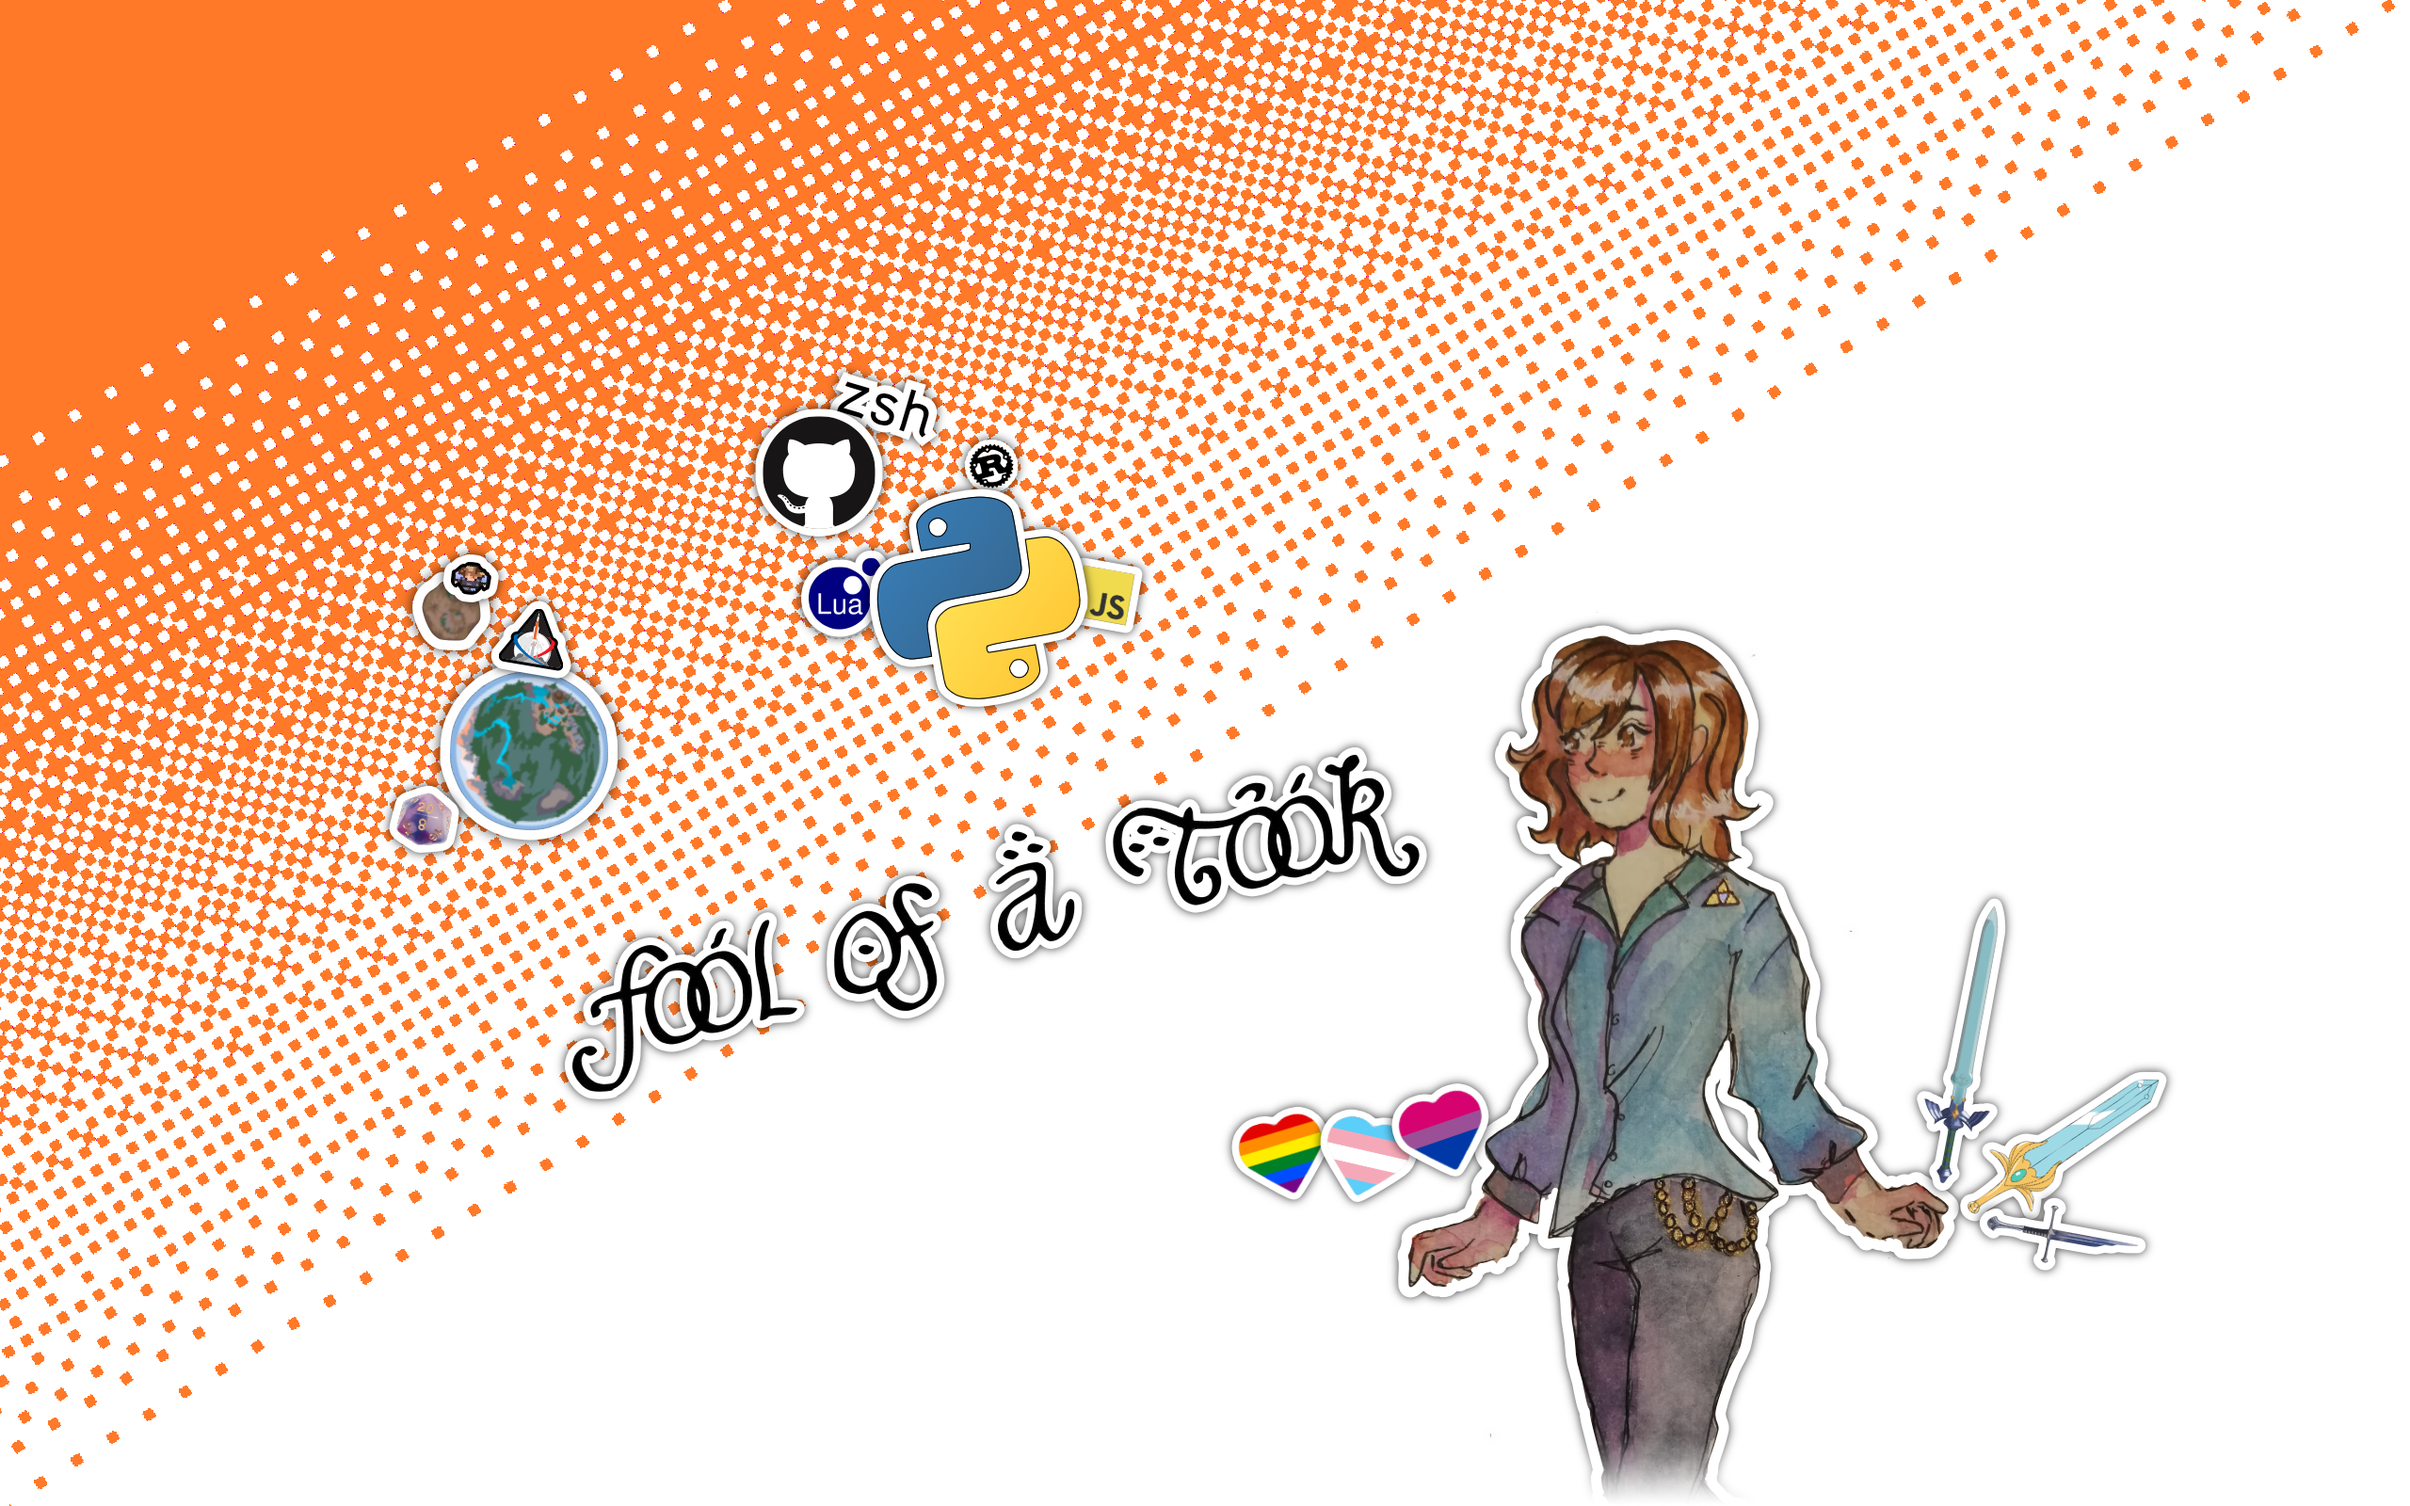
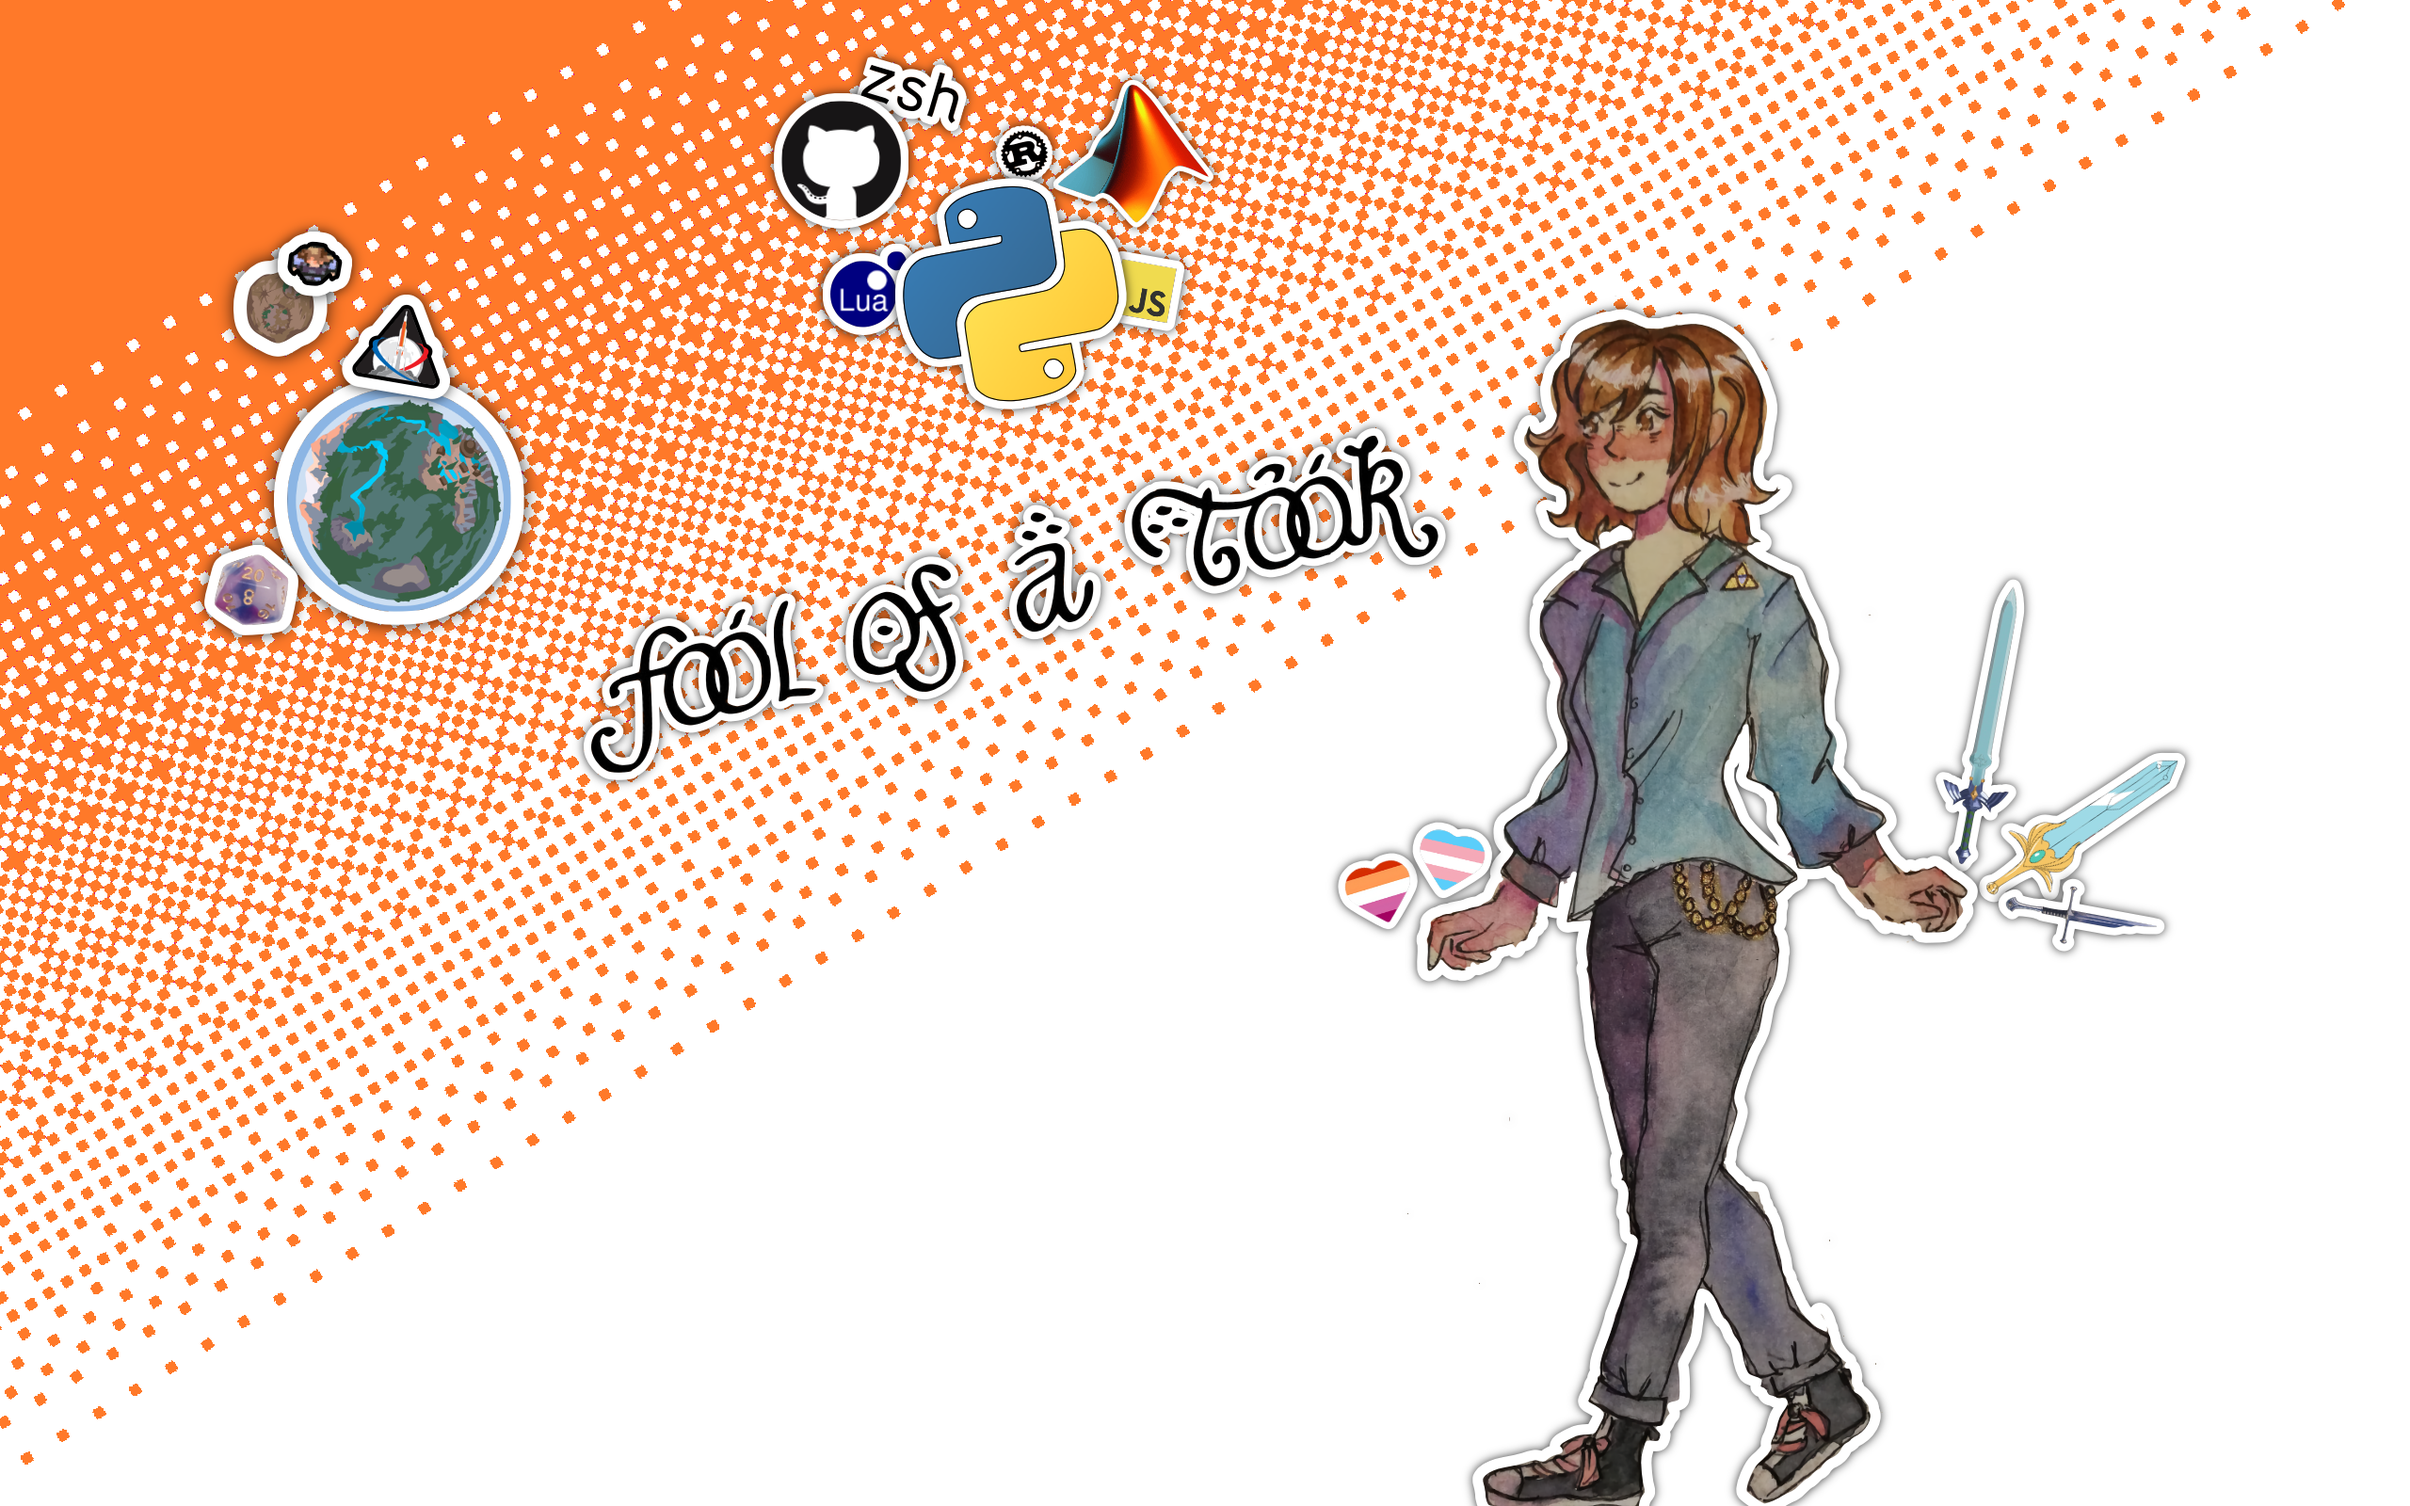
update index.html

diff --git a/index.html b/index.html
@@ -20,77 +20,67 @@
   <div class="zune-spacer-mainpage"></div>
   <content>
     <header>
-      <img src="/static/sticker.png">
+      <img src="static/mia sticker.png">
       <p>Hey hi howdy!</p>
     </header>
-    <p>I'm Mia yun Ruse, a nerdy data witch. I enjoy space, queer fiction, and those
+    <p>
+      I'm Mia yun Ruse, a nerdy data witch. I enjoy space, queer fiction, and those
       chewy sweets that are also sort of sour too.
     </p>
     <main>
 
-
       <article>
-        <h2>Online accounts</h2>
-        <p>If you want to find me online I can be found at:</p>
-        <ul>
-          <li>
-            ✨ <a href="https://yunruse.tumblr.com">Tumblr</a>!
-          </li>
-          <li>
-            🐙 <a href="https://github.com/yunruse">GitHub</a>!
-          </li>
-          <li>
-            📖 <a href="https://en.wikipedia.org/wiki/User:Mia_yun_Ruse">Wikipedia</a>!
-          </li>
-          <li>
-            💼 <a href="https://www.linkedin.com/in/yunruse">LinkedIn</a>!
-          </li>
-        </ul>
-      </article>
-
-
-
-      <article>
-        <h2>Projects</h2>
+        <h2>Python projects</h2>
         <p>
-          My three main project focuses are two Python packages and a book:
+          I've published a few Python packages:
         </p>
         <ul>
           <li>
-            <code>pip install <a href="https://github.com/yunruse/Noether">noether</a></code>
-            for unit calculations and measurements - a calculator with the aim
-            of having every measurement under the sun (and over it too)
+            <code>pip install <a href="https://github.com/yunruse/battery">battery</a></code>,
+            a simple but effective tool for battery stats
+          </li>
+          <li>
+            <code>pip install <a href="https://github.com/yunruse/Noether">noether</a></code>,
+            a unit calculator with a whole host of measurements
           </li>
           <li>
             <code>pip install <a href="https://github.com/yunruse/pxdlib">pxdlib</a></code>
             for manipulating <a href="https://www.pixelmator.com/pro/">Pixelmator documents</a>
             (think Photoshop but nicer)
           </li>
-          <li>
-            An unnamed novel series about an unlikely couple
-          </li>
-        </ul>
-        Some side projects you may enjoy include:
-        <ul>
-          <li>
-            <a href="/mnac">Meta Noughts and Crosses</a>, the tactical twist on the classic game
-          </li>
         </ul>
       </article>
 
+      <article>
+        <h2>Other projects</h2>
+        <p>
+          Some other projects of mine are:
+        </p>
+        <ul>
+          <li>
+            <a href="/mnac">Meta Noughts and Crosses</a> (online!), the tactical twist on the classic game
+          </li>
+          <li>
+            A drama-fantasy novel, <i>Witch and Sun</i>
+          </li>
+          <li>
+            A variety of <a href="https://en.wikipedia.org/wiki/User:Mia_yun_Ruse">Wikipedia</a> edits
+          </li>
+        </ul>
+      </article>
 
       </div>
     </main>
     <p class="blinkies">
       <!-- 2007 called ;) -->
-      <a href="https://www.youtube.com/watch?v=1rwAvUvvQzQ"><img src="static/blinkies!/trams.gif"></a>
-      <a href="https://tmblr.co/ZI11-fbAKJyJSi00"><img src="static/blinkies!/spellcasting.gif"></a>
-      <a href="https://www.youtube.com/watch?v=VWRT9Q8Lg6g"><img src="static/blinkies!/tails.gif"></a>
-      <a href="https://en.wikipedia.org/wiki/Artemis_3"><img src="static/blinkies!/stars.gif"></a>
       <a href="https://blinkies.cafe"><img src="static/blinkies!/coffee.gif"></a>
-      <img class='counter' src="https://justcounts.com/track?id=269477495">
+      <a href="https://www.youtube.com/watch?v=1rwAvUvvQzQ"><img src="static/blinkies!/trams.gif"></a>
+      <a href="/static/sword.png"><img src="static/blinkies!/sword.gif"></a>
+      <a href="https://youtu.be/V81c9l7THu8"><img src="static/blinkies!/tails.gif"></a>
       <a href="https://en.wikipedia.org/wiki/ADHD"><img src="static/blinkies!/time.gif"></a>
+      <a href="https://en.wikipedia.org/wiki/Artemis_3"><img src="static/blinkies!/stars.gif"></a>
+      <a href="https://tmblr.co/ZI11-fbAKJyJSi00"><img src="static/blinkies!/spellcasting.gif"></a>
+      <a href="https://youtu.be/jfoaR3CdIJI"><img src="static/blinkies!/hellsite.gif"></a>
     </p>
-    </div>
   </content>
 </body>

diff --git a/static/style.css b/static/style.css
@@ -110,6 +110,10 @@ article {
 
 /* Main page: vibey things */
 
+.blinkies {
+  text-align: center;
+}
+
 .blinkies img {
   height: 20px;
   image-rendering: pixelated;
